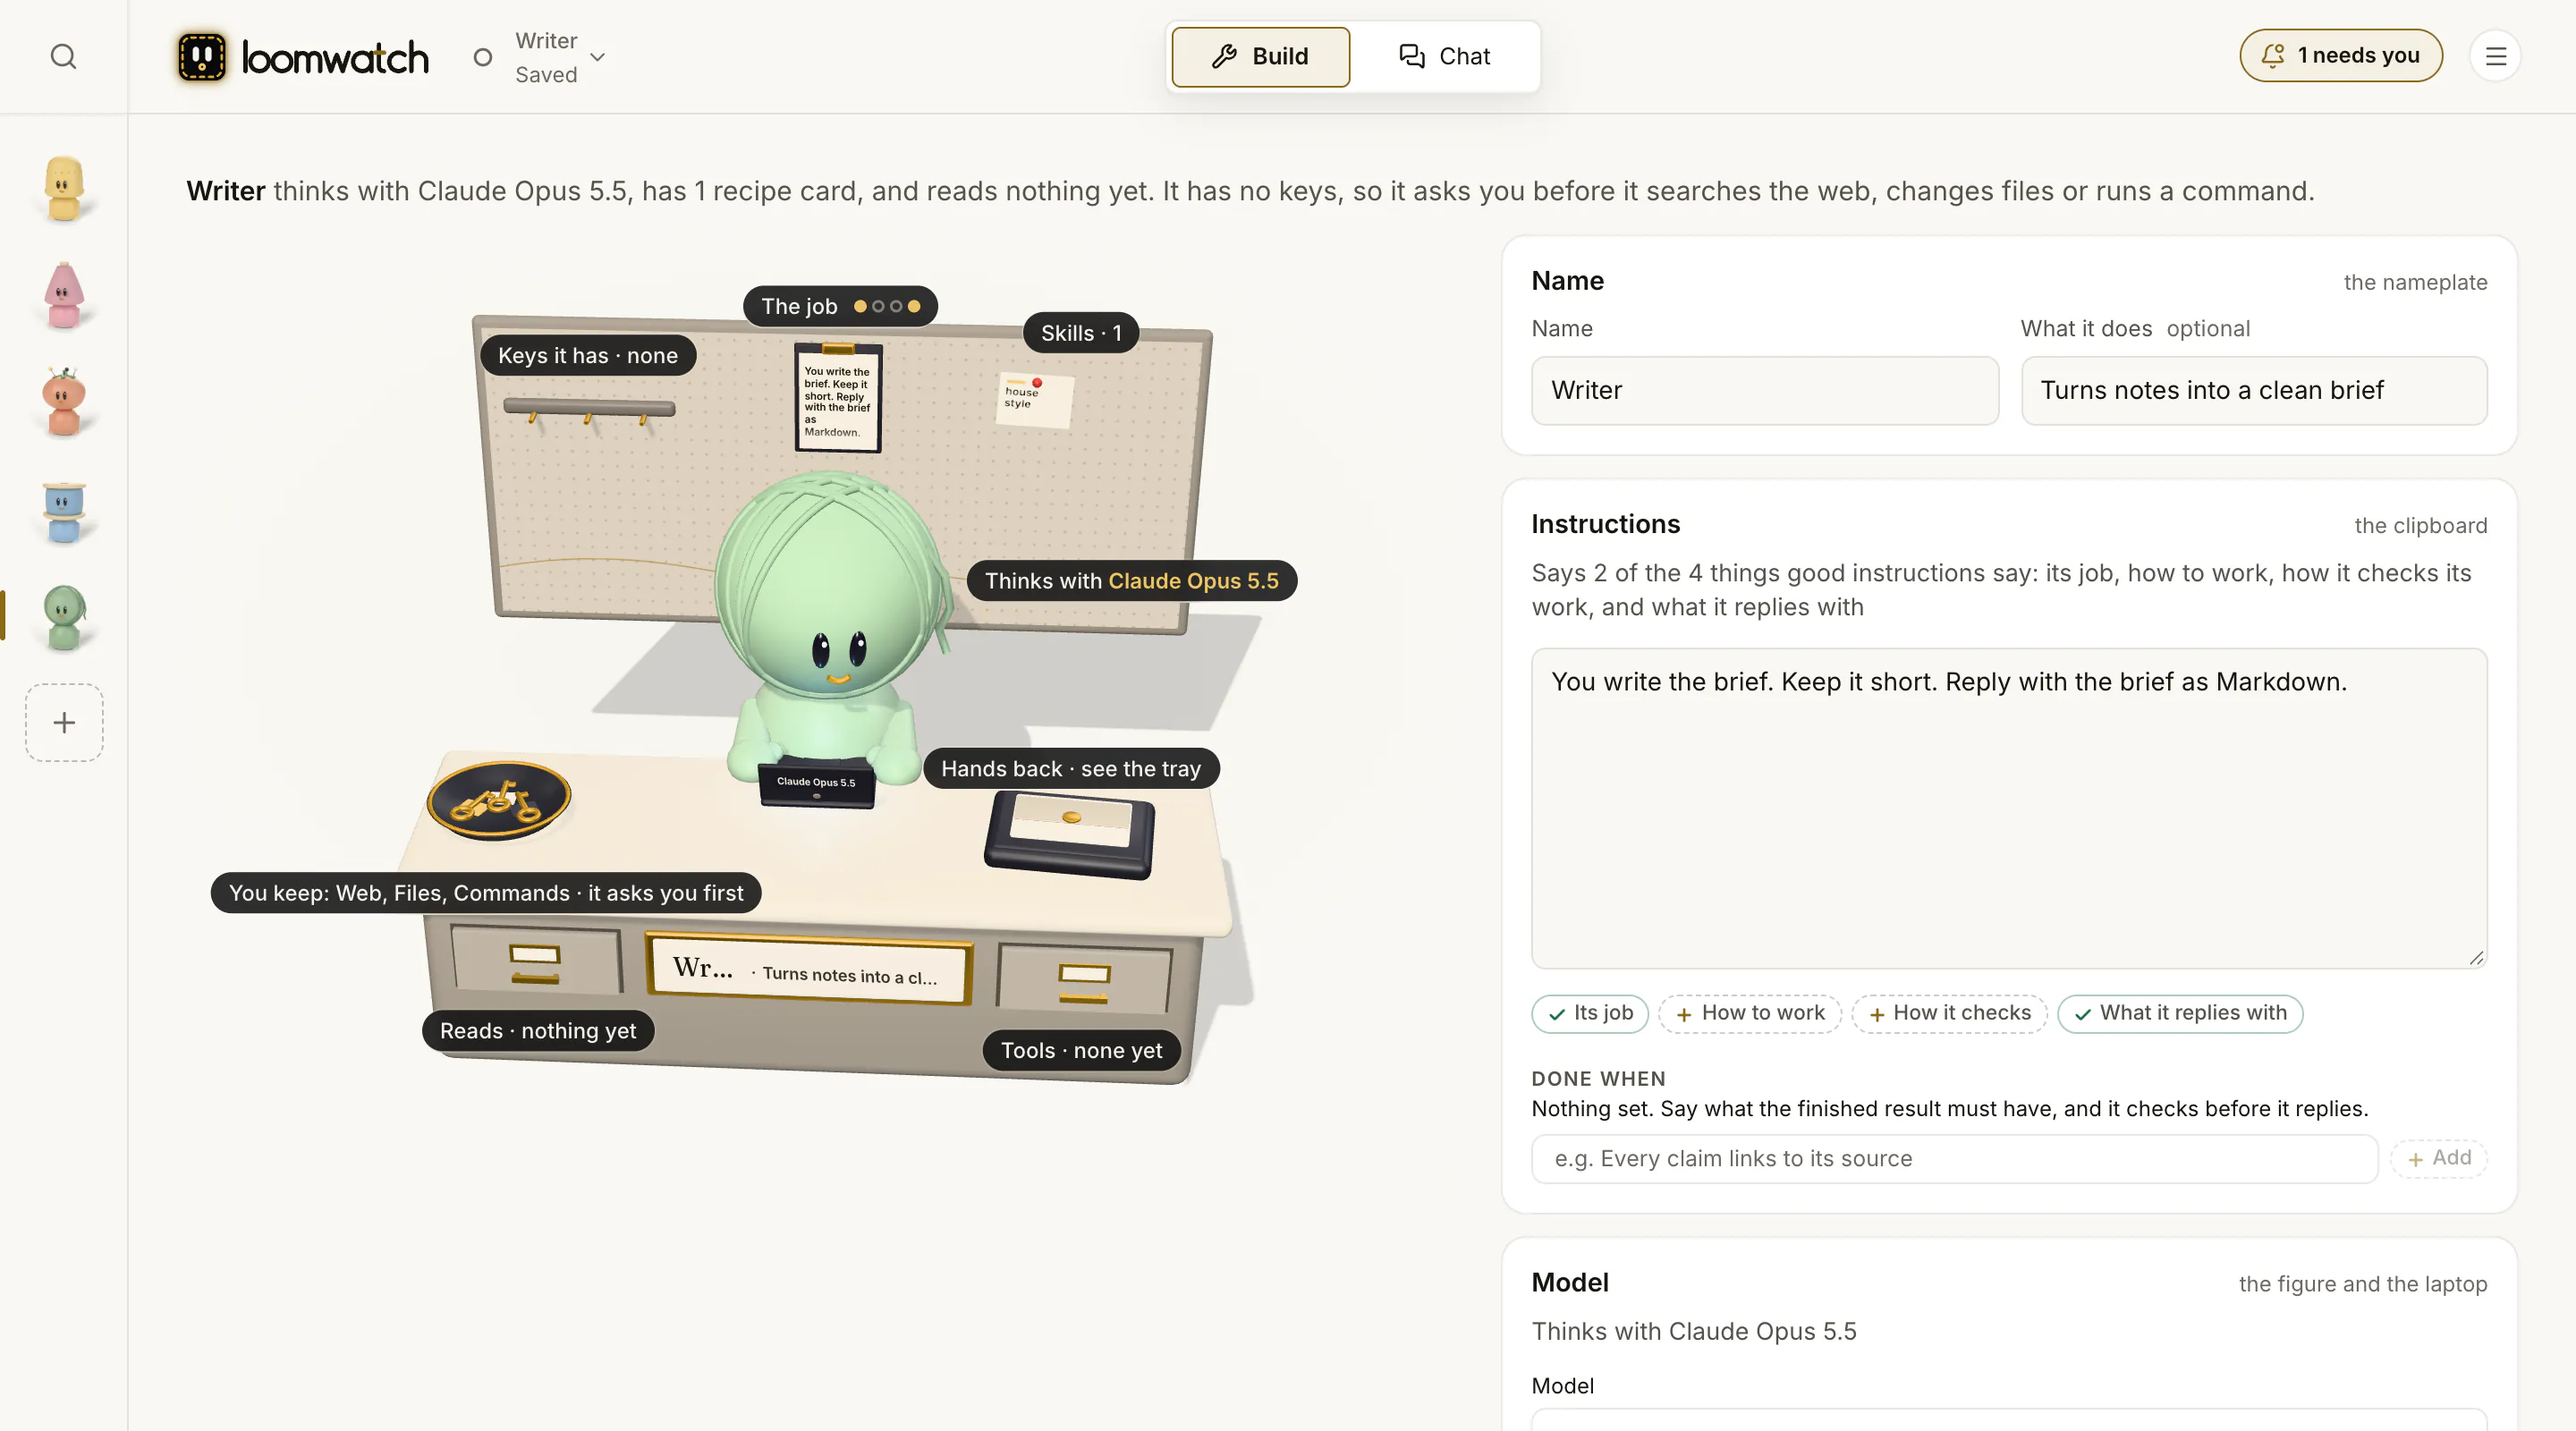
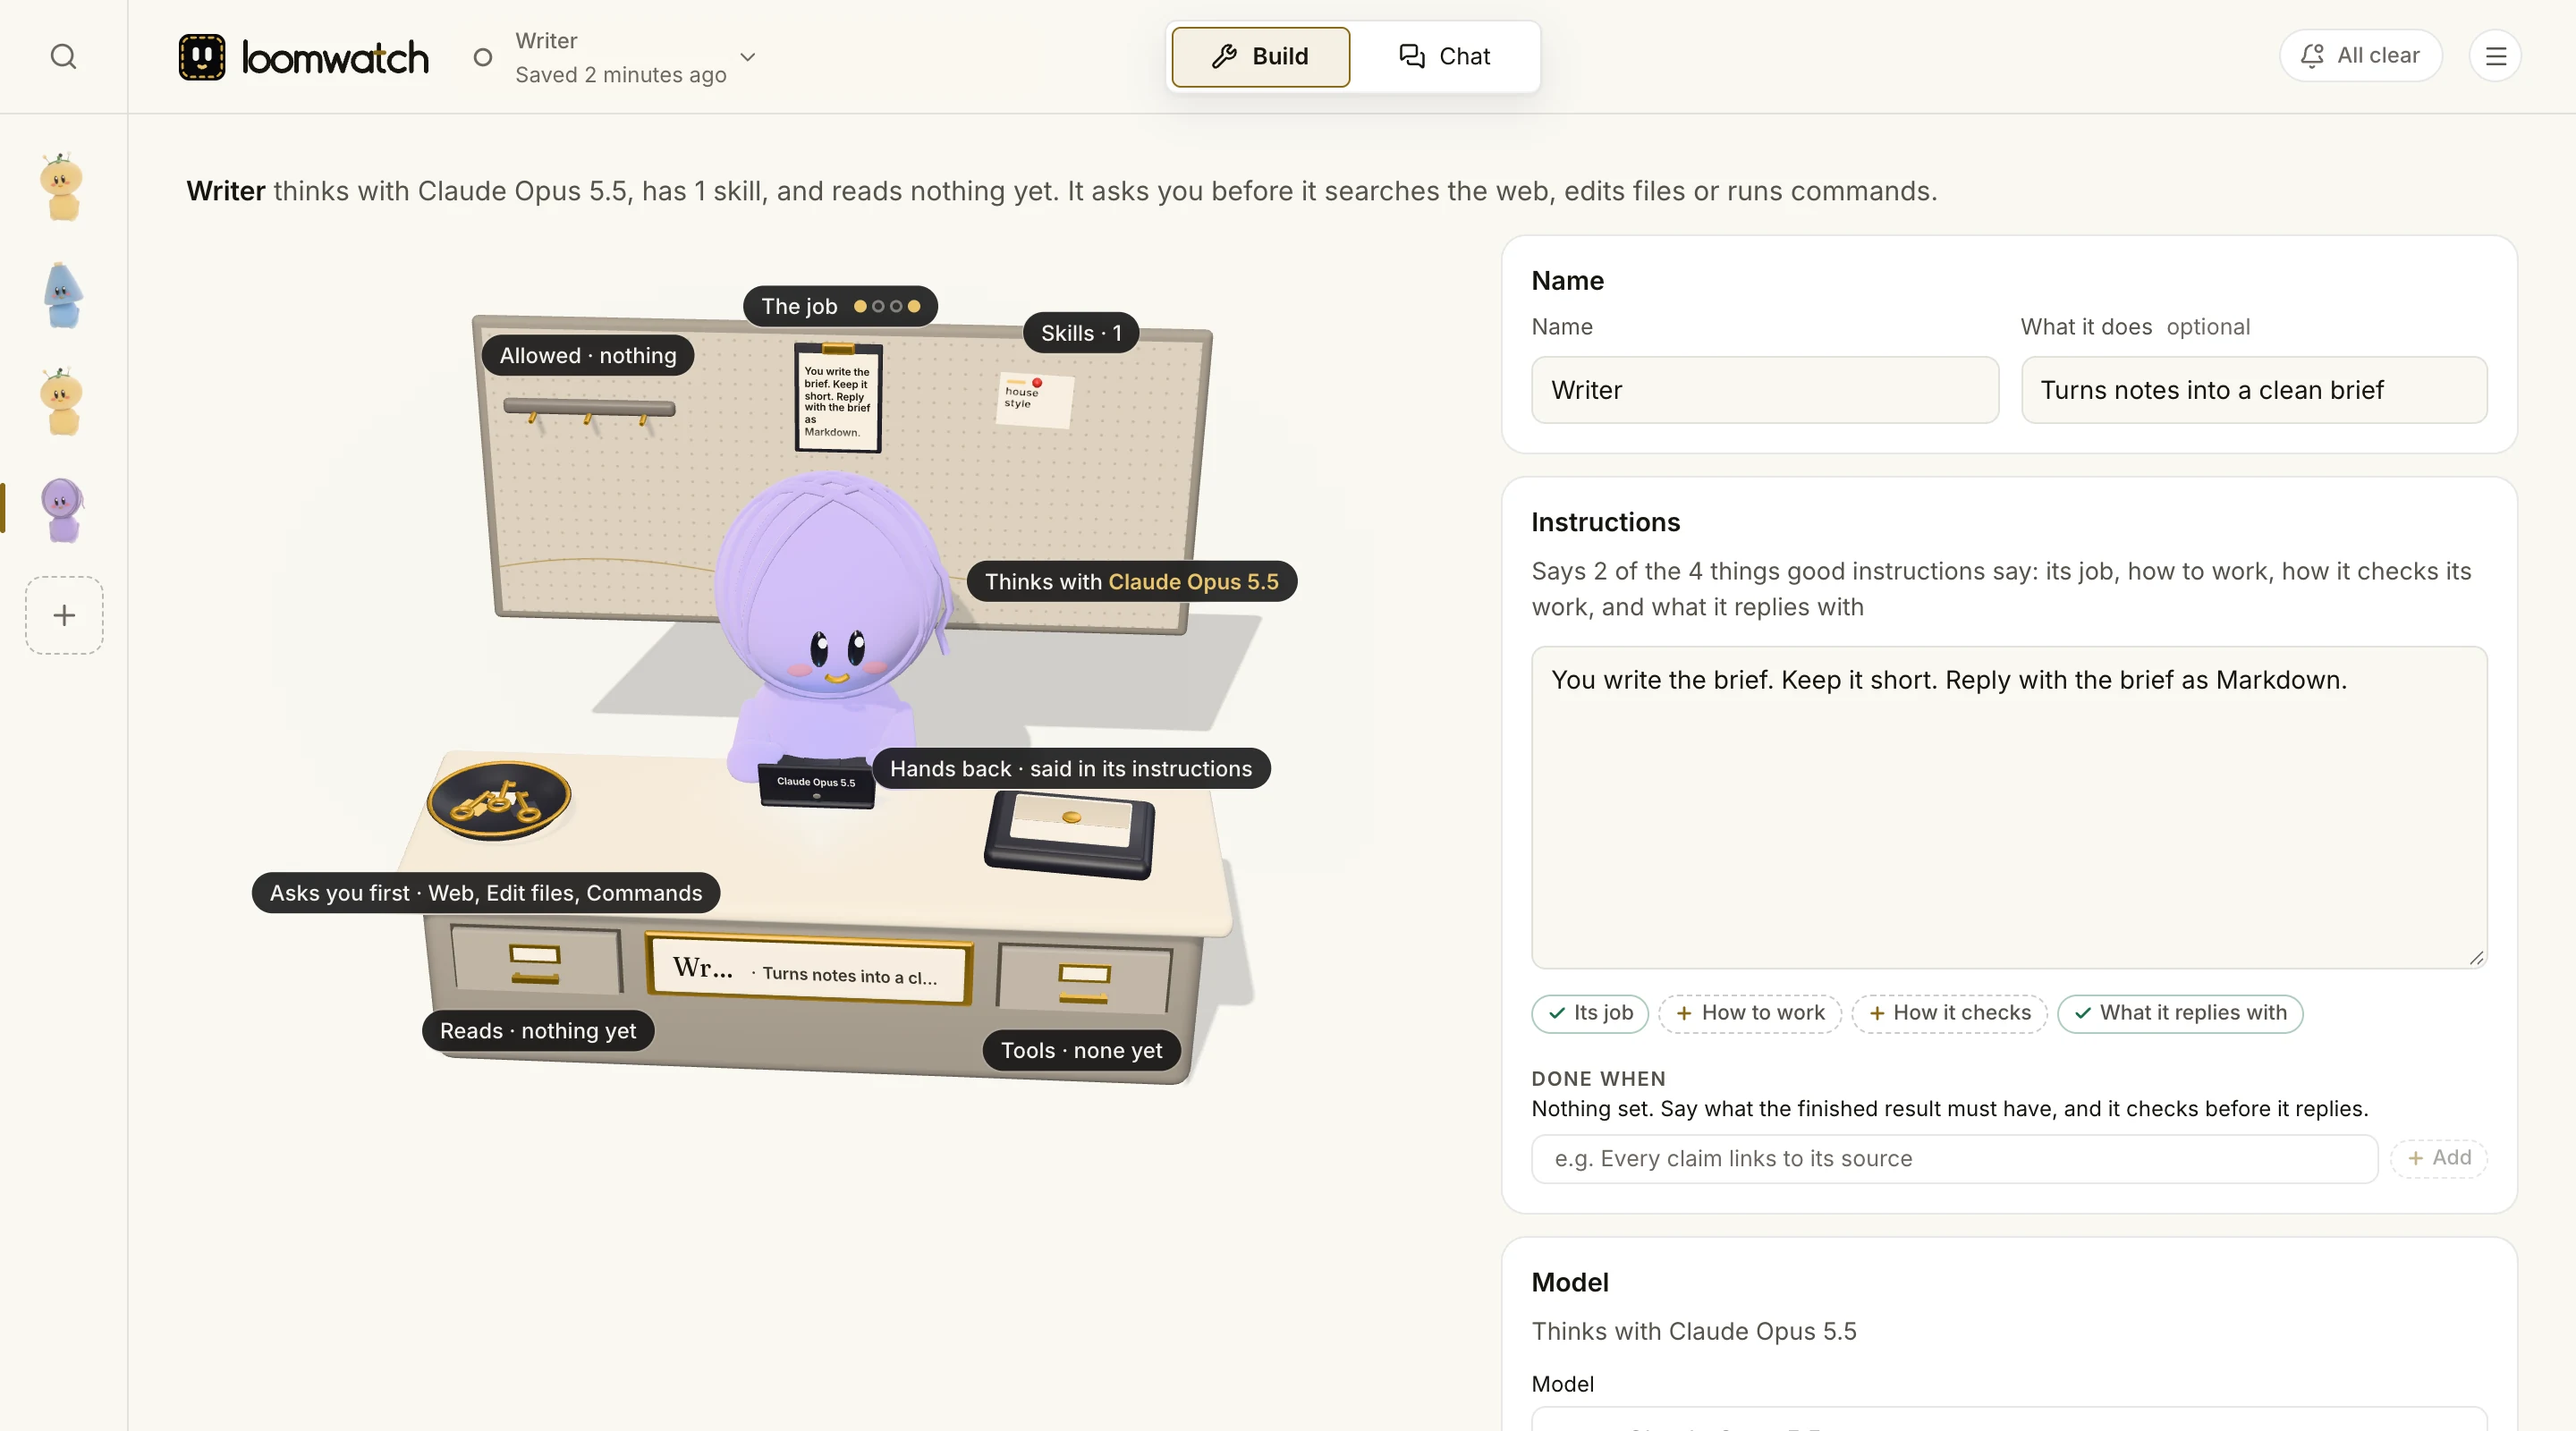
docs(readme): the agent workbench picture shows its plain words, not keys, a tray and recipe cards
The picture of an agent's workbench, used by the README, the "AI agent team" guide and the landing
page's Agents screen, still showed the words #301 replaced: "1 recipe card", "Keys it has · none",
"Hands back · see the tray", "You keep: Web, Files, Commands".

- site/assets/app/agents-*.webp: retaken on a trial (a Writer agent on Claude Opus 5.5 with a
  house-style skill, the OpenRouter stand-in, nothing spent), light and dark at 2x. The sentence on
  top and the desk's labels now read as the app does: Allowed, Asks you first, Hands back · said in
  its instructions, Reads, Tools.
- Its alt texts in the README, the guide and the landing's Agents screen say what the picture shows,
  label by label; the guide's caption and the landing caption say "desk", as the alts do. On the
  landing page only the Agents screen's alt and caption changed.

Checked: newcomer-reviewer read the picture against every alt and caption; its fixes are in.

diff --git a/site/ai-agent-team/index.html b/site/ai-agent-team/index.html
@@ -97,9 +97,9 @@
       <li>When it does the job well, click <strong>Save to My agents</strong>.</li>
     </ol>
     <figure class="shot">
-      <img class="dark" src="../assets/app/agents-dark.webp" width="2880" height="1600" alt="Building an agent called Writer. On the left, its figure sits at a workbench: a clipboard for its job, a laptop showing the model it thinks with, Claude Opus 5.5, a recipe card for its one skill, empty key hooks because it may not act without asking, and a tray for what it hands back. On the right, the same settings as plain blocks, starting with Name and Instructions." loading="lazy" decoding="async">
-      <img class="light" src="../assets/app/agents-light.webp" width="2880" height="1600" alt="Building an agent called Writer. On the left, its figure sits at a workbench: a clipboard for its job, a laptop showing the model it thinks with, Claude Opus 5.5, a recipe card for its one skill, empty key hooks because it may not act without asking, and a tray for what it hands back. On the right, the same settings as plain blocks, starting with Name and Instructions." loading="lazy" decoding="async">
-      <figcaption>Building an agent: its job, its model, its skills and what it may do without asking, on a workbench and as plain settings.</figcaption>
+      <img class="dark" src="../assets/app/agents-dark.webp" width="2880" height="1600" alt="Building an agent called Writer. On the left, its figure sits at a desk with a label on each part: The job, its instructions pinned up; Skills · 1, a note for its house style; Thinks with Claude Opus 5.5; Allowed · nothing; Asks you first · Web, Edit files, Commands; Hands back · said in its instructions; Reads · nothing yet; Tools · none yet. Above it, one sentence: Writer thinks with Claude Opus 5.5, has 1 skill, and reads nothing yet. It asks you before it searches the web, edits files or runs commands. On the right, the same settings in blocks, starting with Name, What it does and Instructions." loading="lazy" decoding="async">
+      <img class="light" src="../assets/app/agents-light.webp" width="2880" height="1600" alt="Building an agent called Writer. On the left, its figure sits at a desk with a label on each part: The job, its instructions pinned up; Skills · 1, a note for its house style; Thinks with Claude Opus 5.5; Allowed · nothing; Asks you first · Web, Edit files, Commands; Hands back · said in its instructions; Reads · nothing yet; Tools · none yet. Above it, one sentence: Writer thinks with Claude Opus 5.5, has 1 skill, and reads nothing yet. It asks you before it searches the web, edits files or runs commands. On the right, the same settings in blocks, starting with Name, What it does and Instructions." loading="lazy" decoding="async">
+      <figcaption>Building an agent: its job, its model, its skills and what it may do without asking, on its desk and as plain settings.</figcaption>
     </figure>
     <p>You build each agent once and use it in any team. It is the same agent in every team it's in: change its job later and every team uses the change from its next run, and what it learns from your feedback goes with it.</p>
   </section>

diff --git a/site/main.js b/site/main.js
@@ -2707,7 +2707,7 @@
 
   const SCREENS = {
     home: { w: 2880, h: 1600, alt: 'LoomWatch Home: first Your desk, where the Researcher brought work for you to check, with a gold Review button. Below, your projects as rooms, each with its team\u2019s agents at their desks in the order work moves: in SUTD final project the Researcher is drawn faint because it is at your desk, then the gold ring where you check; in Bakery website the Writer is working; Morning news runs every day at 8:00 AM; in My thesis the Writer is drawn faint because it is working in the Website team. Then a New project tile, and an agent in no project yet.', cap: 'Home: your desk first, with whoever waits for you, then a room for each project, with its agents at their desks.' },
-    agents: { w: 2880, h: 1600, alt: "LoomWatch's agent workbench for Writer: a sentence saying Writer thinks with Claude Opus 5.5, has one skill and asks before it may act, a mint-green figure at its desk with labels for its keys, its skills, the model it thinks with, its job and its tray, and on the right the blocks that make it, starting with Name and Instructions with a check of what good instructions say.", cap: 'An agent on its workbench: the figure shows what it has, the blocks beside it change it, and the sentence on top says what it all adds up to.' },
+    agents: { w: 2880, h: 1600, alt: "Building Writer in LoomWatch: a sentence saying Writer thinks with Claude Opus 5.5, has one skill and asks you before it searches the web, edits files or runs commands; a lavender figure at its desk with labels for its job, its skill, the model it thinks with, what it is allowed, what it asks you first, what it hands back, what it reads and its tools; and on the right the blocks that make it, starting with Name and Instructions with a check of what good instructions say.", cap: 'An agent at its desk: the figure shows what it has, the blocks beside it change it, and the sentence on top says what it all adds up to.' },
     workflow: { w: 2880, h: 1600, alt: 'LoomWatch Workflow for a daily tech digest: the team as one sentence, Every day at 9:00 AM and whenever you ask, Gatherer collects what is needed, then Reader does its part, and finally Writer writes the answer, each with its figure; on the left your saved agents ready to add; on the canvas a schedule trigger at 9 AM wired to Gatherer, Reader and Writer, and the team response.', cap: 'Workflow: your agents wired in order, read back as one sentence, with your saved agents one click away on the left.' },
     chat: { w: 2880, h: 1600, alt: "LoomWatch Chat: you ask the team for a short getting-started guide. Under your message, Researcher's figure, 1 reply and Waiting for you, then a card with Researcher's handover and Approve. On the right, the Replies tab shows what Researcher handed over, with a Details tab next to it.", cap: "Chat: what needs you waits in the chat, the agents' replies open beside it, and every step is a tab away in Details." },
   }

diff --git a/README.md b/README.md
@@ -63,7 +63,7 @@ and asks.
 <td width="50%" valign="middle">
 <picture>
   <source media="(prefers-color-scheme: dark)" srcset="site/assets/app/agents-dark.webp">
-  <img src="site/assets/app/agents-light.webp" alt="Building an agent called Writer. Along the top, the name Writer, marked Saved, the Build and Chat tabs, and the bell saying 1 needs you. Down the left edge, a column of My agents' figures, with Writer's marked; pick one to open it. Under the top bar, one sentence sums the agent up: Writer thinks with Claude Opus 5.5, has 1 recipe card and reads nothing yet. Below it, Writer's figure sits at a workbench: a clipboard for its job, a laptop showing the model it thinks with, Claude Opus 5.5, a recipe card for its one skill, empty key hooks because it asks you before it searches the web, changes files or runs a command, and a tray for what it hands back. On the right, the same settings as a form, starting with Name and Instructions.">
+  <img src="site/assets/app/agents-light.webp" alt="Building an agent called Writer. Along the top, the name Writer, marked as saved, the Build and Chat tabs, and the bell saying All clear. Down the left edge, a column of My agents' figures, with Writer's marked; pick one to open it. Under the top bar, one sentence sums the agent up: Writer thinks with Claude Opus 5.5, has 1 skill, and reads nothing yet. It asks you before it searches the web, edits files or runs commands. Below it, Writer's figure sits at a desk, with a label on each part: The job, its instructions pinned up; Skills · 1, a note for its house style; Thinks with Claude Opus 5.5; Allowed · nothing; Asks you first · Web, Edit files, Commands; Hands back · said in its instructions; Reads · nothing yet; Tools · none yet. On the right, the same settings in blocks, starting with Name, What it does and Instructions.">
 </picture>
 </td>
 <td width="50%" valign="middle">
